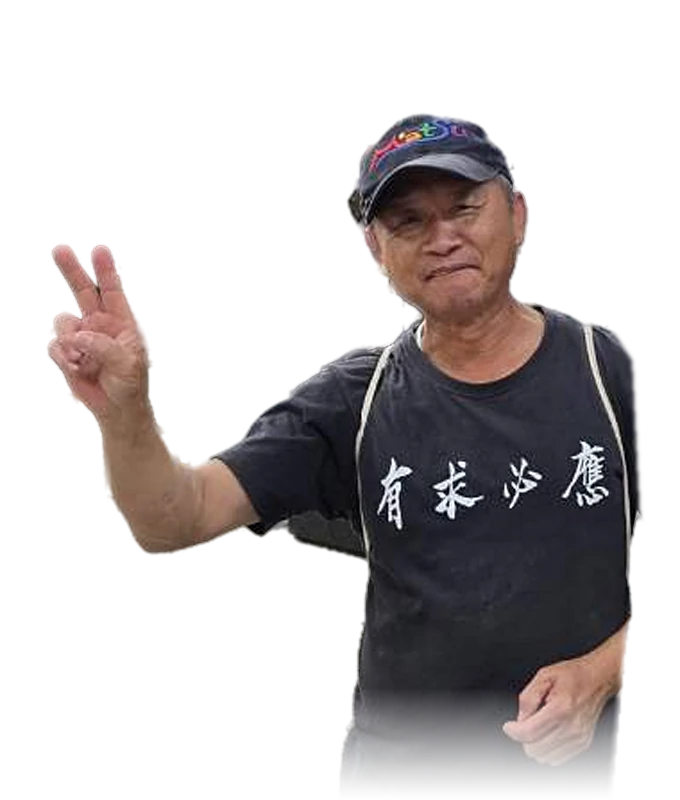
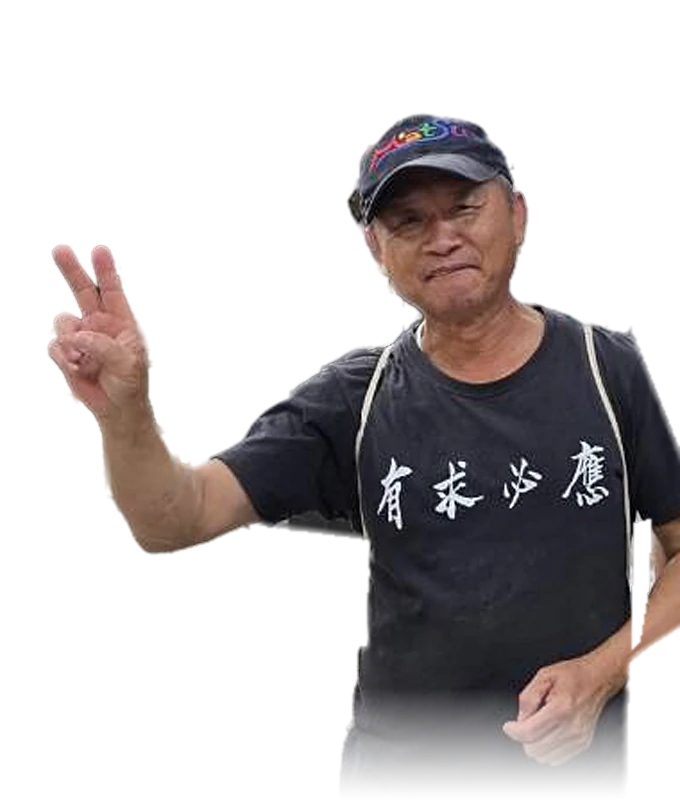
比 YA 照片重新去背：照原圖描出志永哥的手臂外緣，切乾淨旁邊的同學與背景
- 右邊同學：沿肩膀、袖子、手肘、前臂外緣切開，補回原本被切掉的左手臂
- 擦掉舉起的右手袖口下方、身體與前臂之間露出的背景
- sw.js 版本 v46

Changed region(s): [[0.8956, 0.4062, 1.0, 0.9688], [0.3706, 0.625, 0.5559, 0.8125]]

diff --git a/sw.js b/sw.js
@@ -1,6 +1,6 @@
 // TempleGo 離線快取
 // ⚠ 新增或改名圖片時：把路徑加進 PRECACHE，並把 VERSION 加 1，遊客手機才會更新快取
-const VERSION = "v45";
+const VERSION = "v46";
 const CACHE = `templego-${VERSION}`;
 const FONT_CACHE = "templego-fonts";
 
